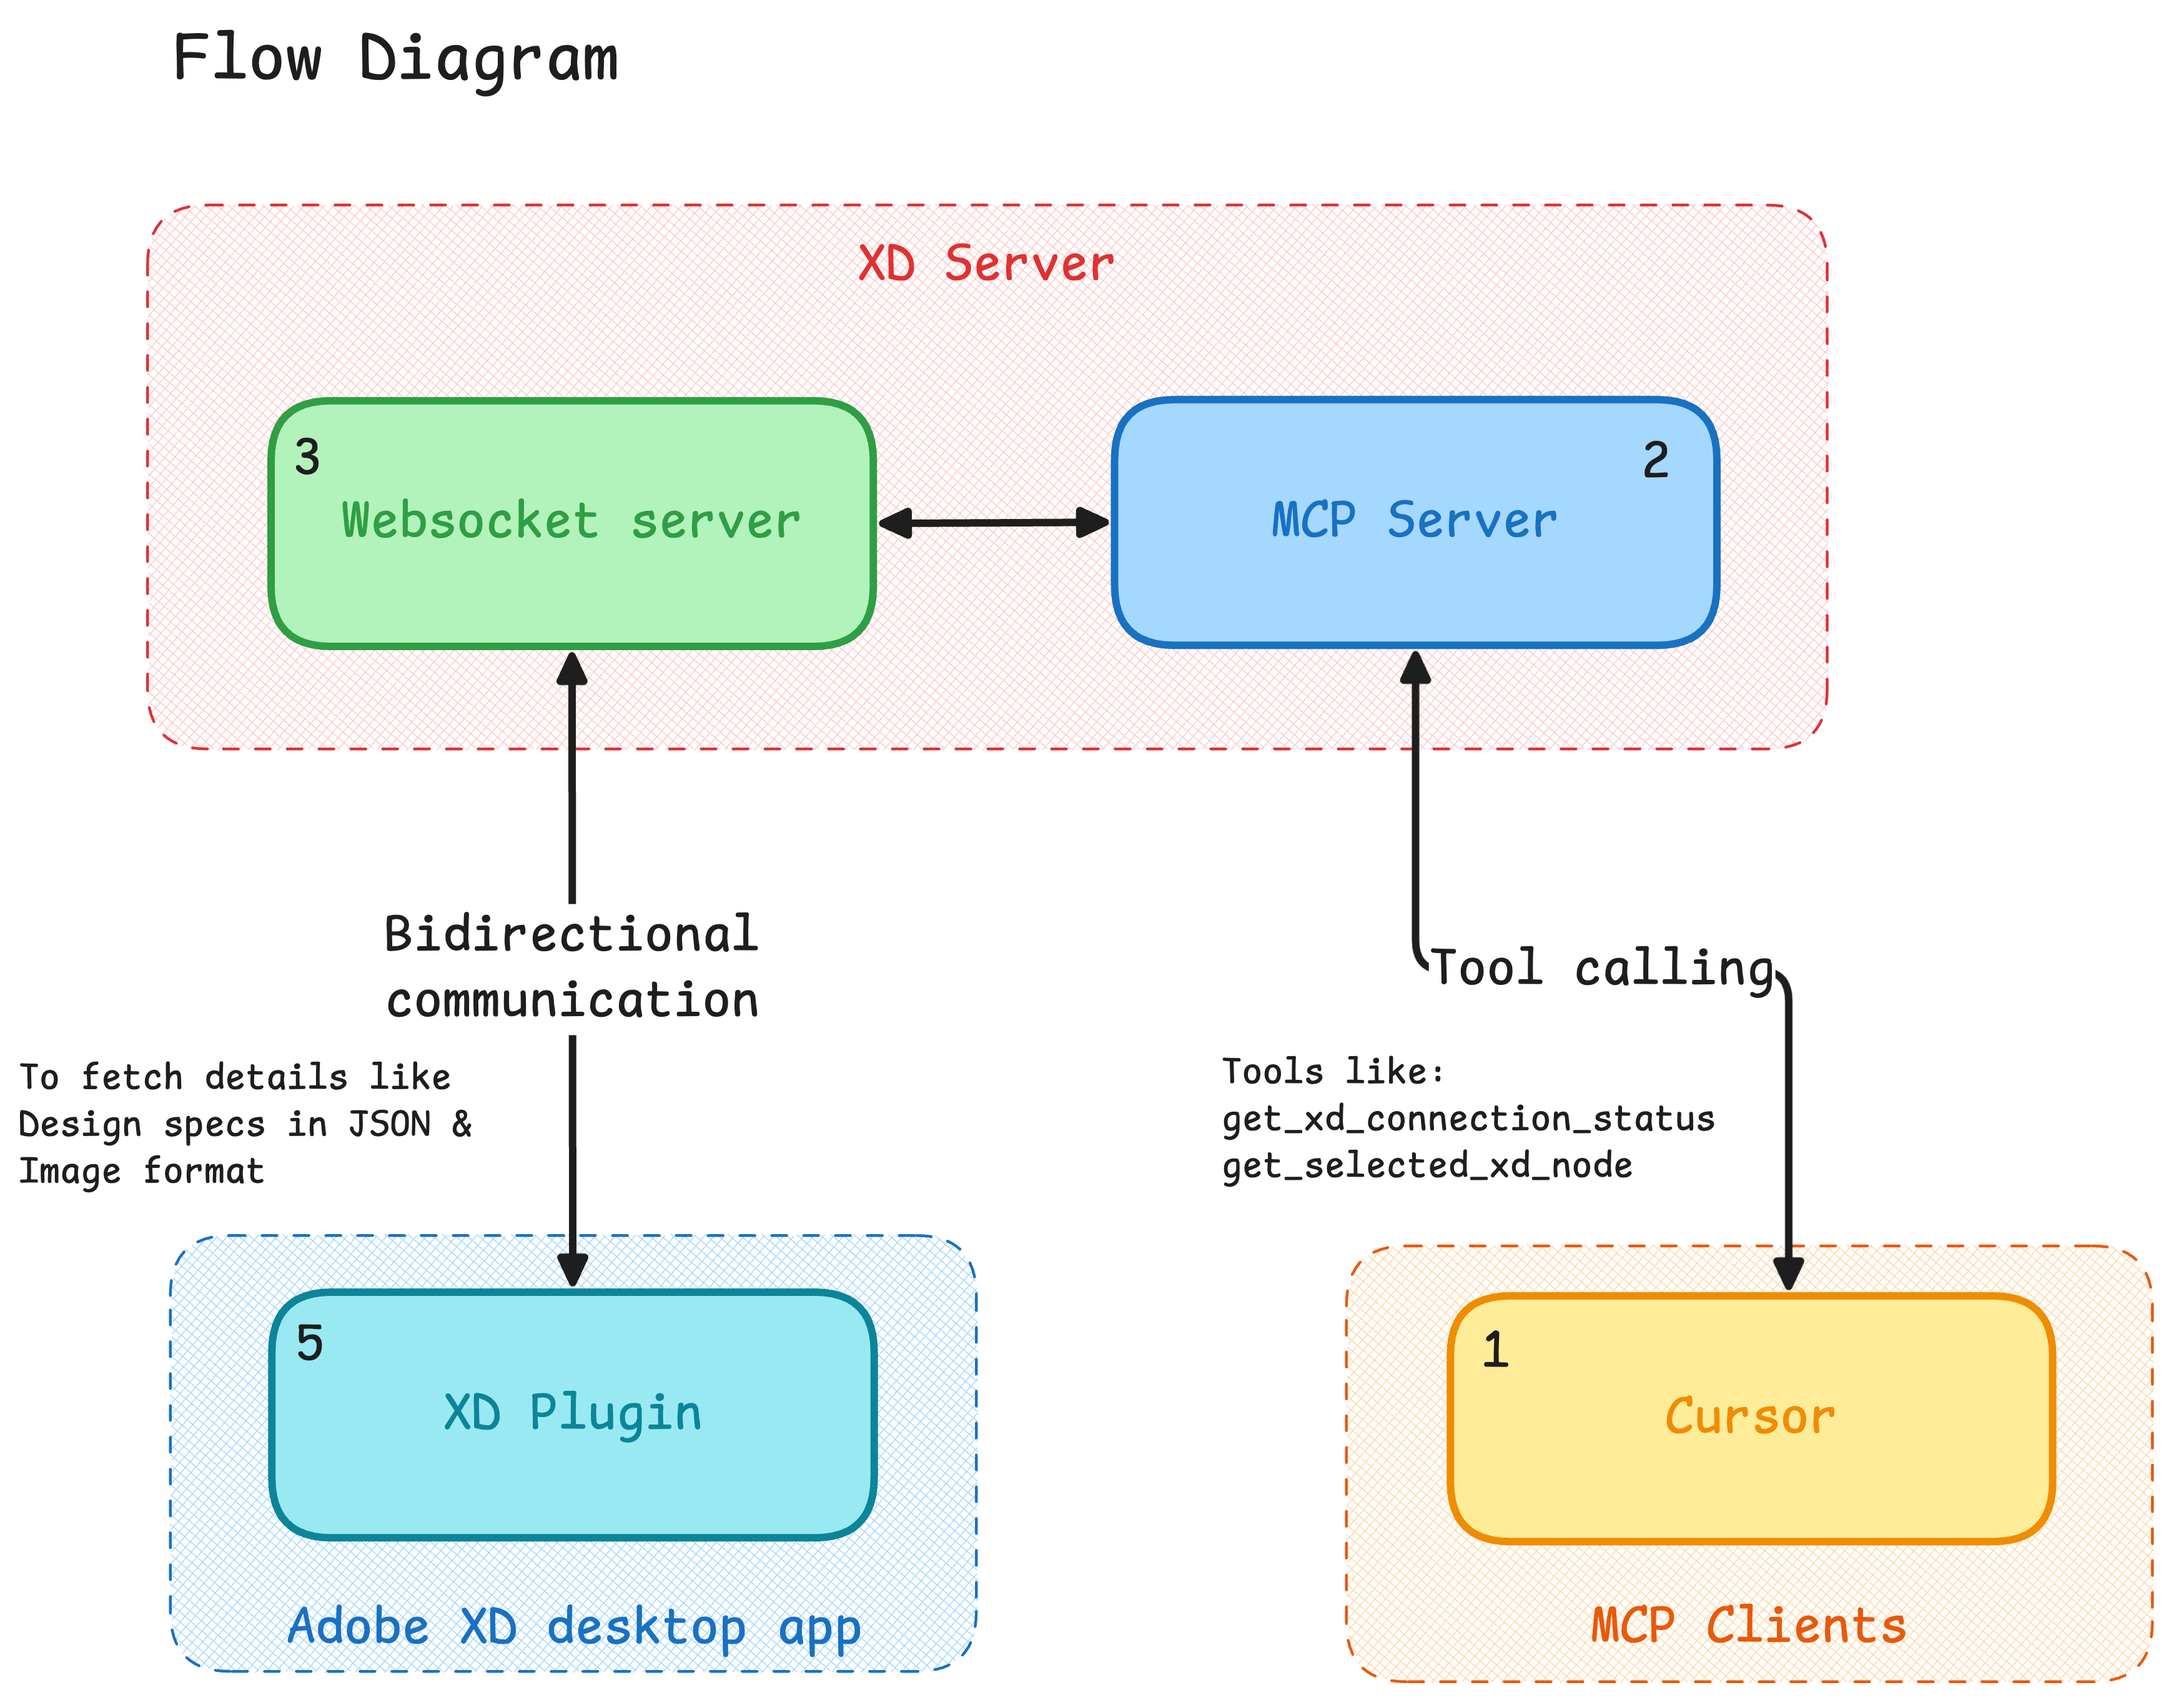
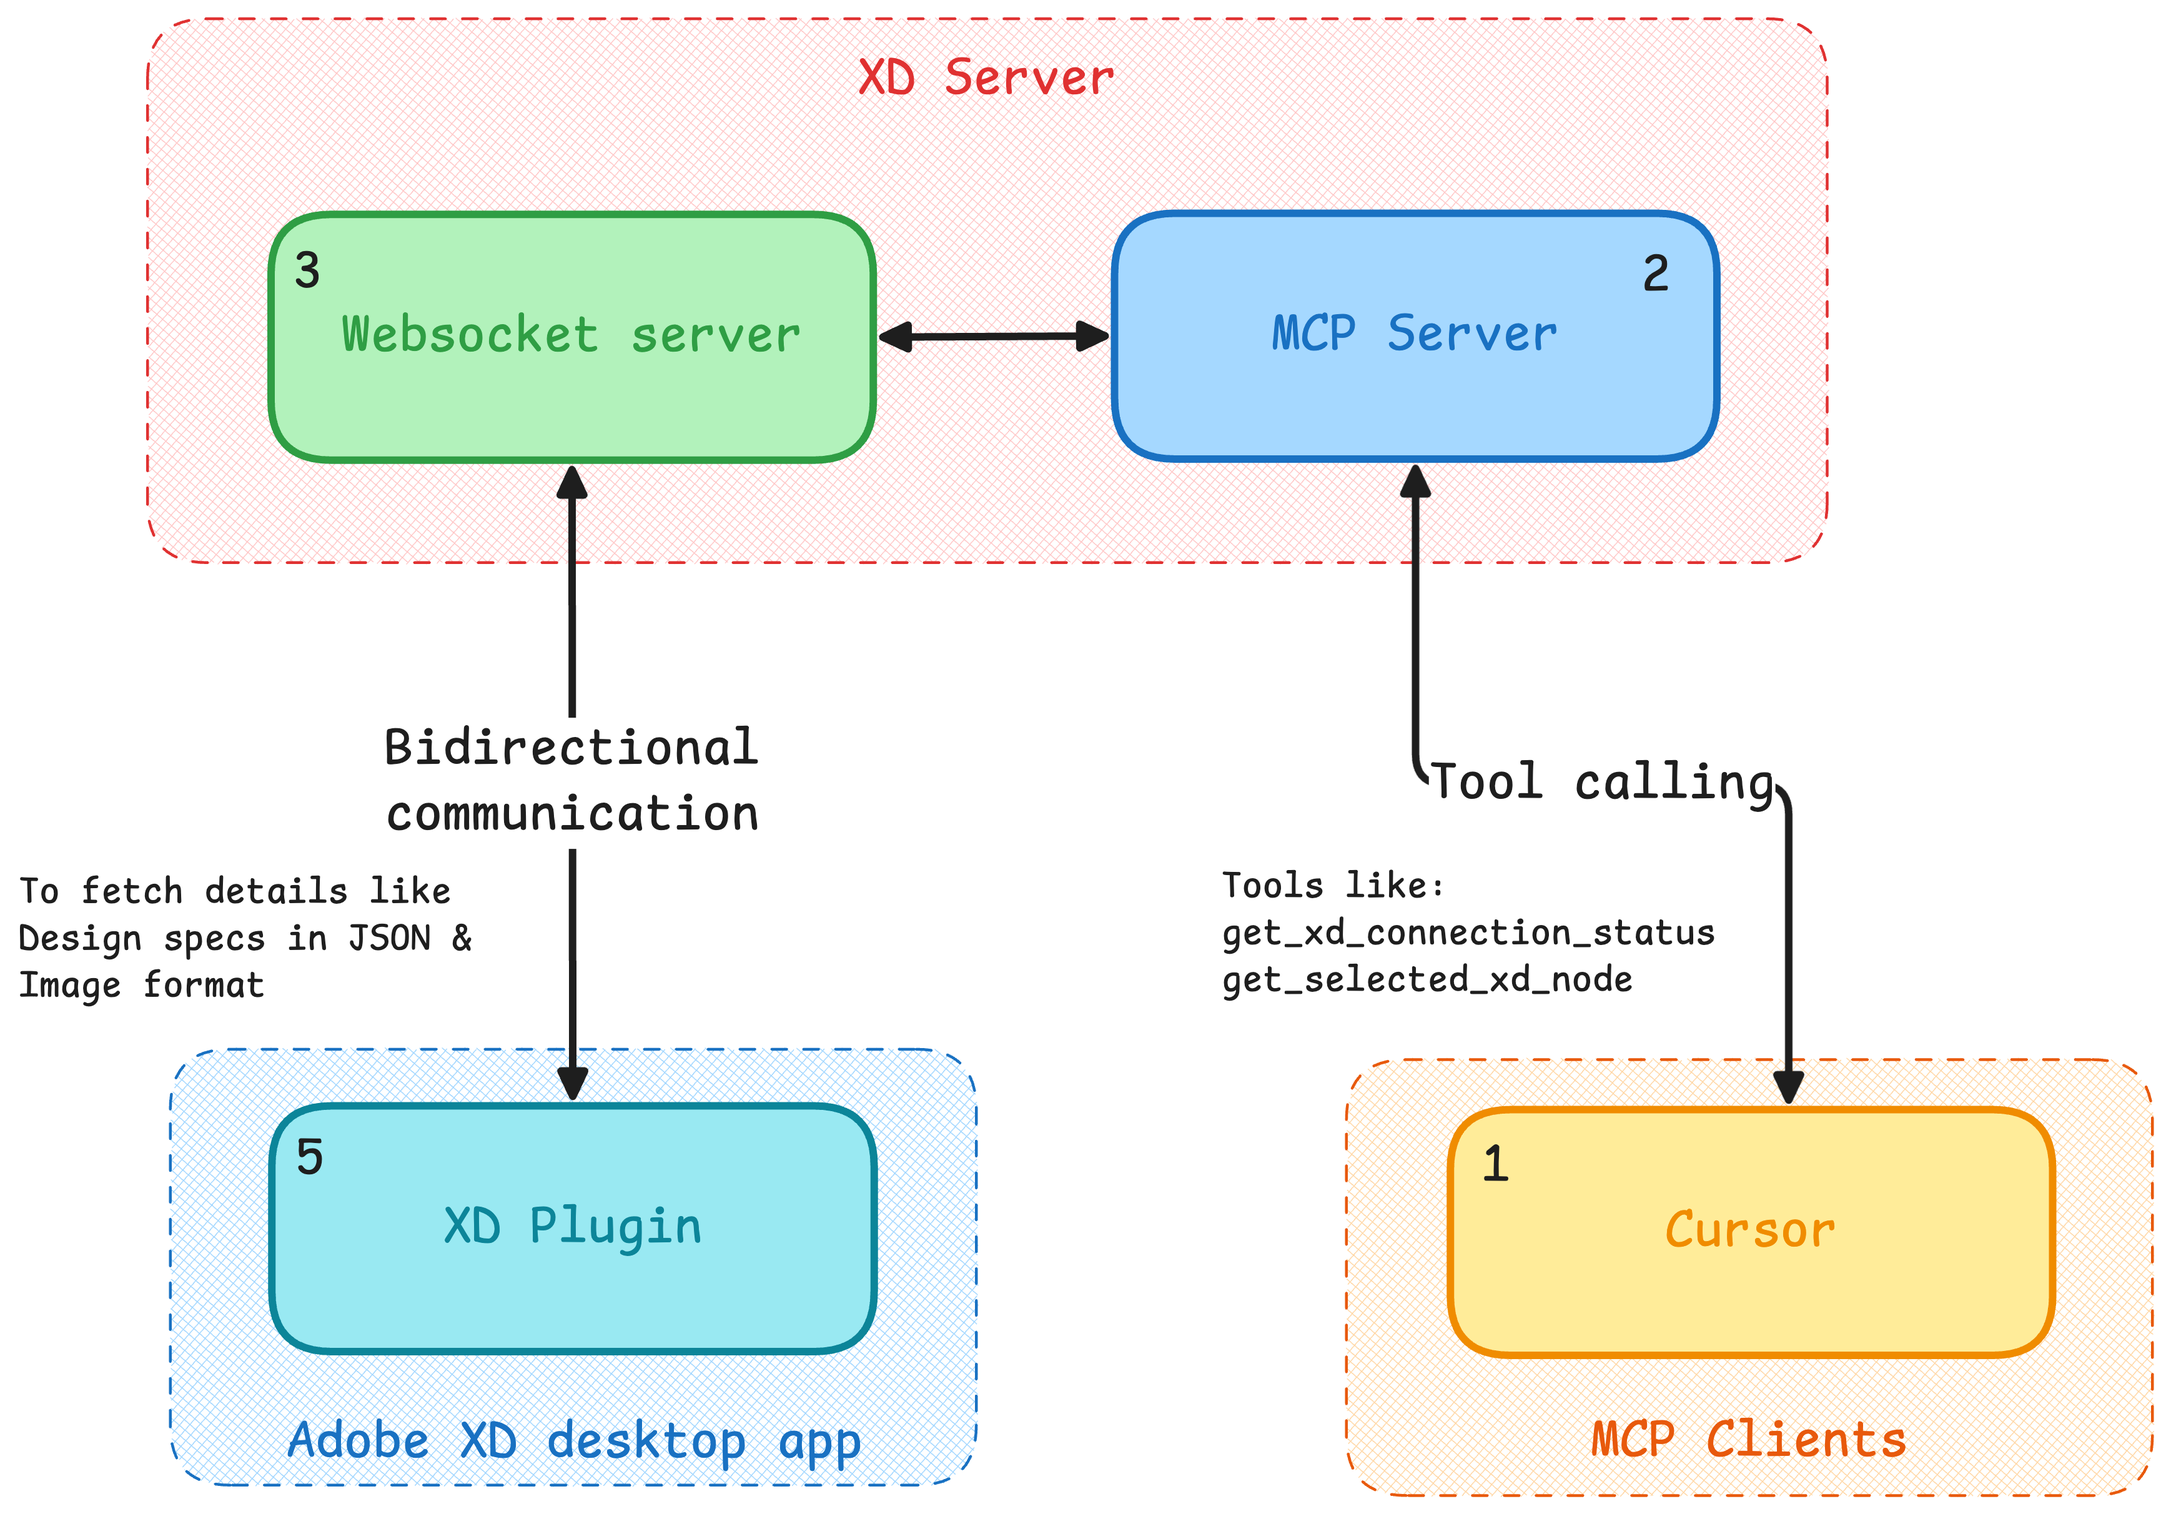
updated readme image size

Changed region(s): [[0.0, 0.0, 0.8389, 0.9901], [0.5593, 0.495, 0.9942, 0.9901]]

diff --git a/RESULTS.md b/RESULTS.md
@@ -2,16 +2,6 @@
 
 This document showcases the UI skeleton development improvements achieved using the XD Ecosystem (XD Plugin & XD Server with MCP), comparing it with traditional AI-generated skeletons by just using image to demonstrate enhanced accuracy and code quality for component structure generation.
 
-<style>
-.component-image {
-    width: 300px;
-    height: 200px;
-    object-fit: cover;
-    border: 1px solid #ddd;
-    border-radius: 8px;
-}
-</style>
-
 ## 📊 Component Skeleton Development Performance Metrics
 
 | Component                         | Traditional AI | XD Ecosystem | Absolute Improvement |
@@ -25,35 +15,35 @@ This document showcases the UI skeleton development improvements achieved using 
 
 ### Component 1: Easy complexity UI Skeleton
 
-| **Mockup**                                                                                                   | **Traditional AI Skeleton**                                                                                  | **XD Ecosystem (Plugin + MCP)**                                                                            |
-| ------------------------------------------------------------------------------------------------------------ | ------------------------------------------------------------------------------------------------------------ | ---------------------------------------------------------------------------------------------------------- |
-| <img src="./images/results/Component%201%20-%20MockUp.png" class="component-image" alt="Component 1 MockUp"> | <img src="./images/results/Component%201%20-%20Before.png" class="component-image" alt="Component 1 Before"> | <img src="./images/results/Component%201%20-%20After.png" class="component-image" alt="Component 1 After"> |
-| **Target Design**                                                                                            | **Traditional AI-Generated Skeleton**                                                                        | **XD Ecosystem (Plugin + MCP Server)**                                                                     |
+| **Mockup** | **Traditional AI Skeleton** | **XD Ecosystem (Plugin + MCP)** |
+| :----: | :----: | :----: |
+| <img src="./images/results/Component%201%20-%20MockUp.png" class="component-image" alt="Component 1 MockUp" height="200"> | <img src="./images/results/Component%201%20-%20Before.png" class="component-image" alt="Component 1 Before" height="200"> | <img src="./images/results/Component%201%20-%20After.png" class="component-image" alt="Component 1 After" height="200"> |
+| **Target Design** | **Traditional AI-Generated Skeleton** | **XD Ecosystem (Plugin + MCP Server)** |
 
 ### Component 2: Easy complexity UI Skeleton
 
-| **Mockup**                                                                                                   | **Traditional AI Skeleton**                                                                                  | **XD Ecosystem (Plugin + MCP)**                                                                            |
-| ------------------------------------------------------------------------------------------------------------ | ------------------------------------------------------------------------------------------------------------ | ---------------------------------------------------------------------------------------------------------- |
-| <img src="./images/results/Component%202%20-%20MockUp.png" class="component-image" alt="Component 2 MockUp"> | <img src="./images/results/Component%202%20-%20Before.png" class="component-image" alt="Component 2 Before"> | <img src="./images/results/Component%202%20-%20After.png" class="component-image" alt="Component 2 After"> |
-| **Target Design**                                                                                            | **Traditional AI-Generated Skeleton**                                                                        | **XD Ecosystem (Plugin + MCP Server)**                                                                     |
+| **Mockup** | **Traditional AI Skeleton** | **XD Ecosystem (Plugin + MCP)** |
+| :----: | :----: | :----: |
+| <img src="./images/results/Component%202%20-%20MockUp.png" class="component-image" alt="Component 2 MockUp" height="200"> | <img src="./images/results/Component%202%20-%20Before.png" class="component-image" alt="Component 2 Before" height="200"> | <img src="./images/results/Component%202%20-%20After.png" class="component-image" alt="Component 2 After" height="200"> |
+| **Target Design** | **Traditional AI-Generated Skeleton** | **XD Ecosystem (Plugin + MCP Server)** |
 
 Improvements: **+50% Structure Accuracy** Enhanced from 40% to 90% with proper HTML semantic structure and styles for easy complexity components.
 
 ### Component 3: Medium complexity UI Skeleton
 
-| **Mockup**                                                                                                   | **Traditional AI Skeleton**                                                                                  | **XD Ecosystem (Plugin + MCP)**                                                                            |
-| ------------------------------------------------------------------------------------------------------------ | ------------------------------------------------------------------------------------------------------------ | ---------------------------------------------------------------------------------------------------------- |
-| <img src="./images/results/Component%203%20-%20MockUp.png" class="component-image" alt="Component 3 MockUp"> | <img src="./images/results/Component%203%20-%20Before.png" class="component-image" alt="Component 3 Before"> | <img src="./images/results/Component%203%20-%20After.png" class="component-image" alt="Component 3 After"> |
-| **Target Design**                                                                                            | **Traditional AI-Generated Skeleton**                                                                        | **XD Ecosystem (Plugin + MCP Server)**                                                                     |
+| **Mockup** | **Traditional AI Skeleton** | **XD Ecosystem (Plugin + MCP)** |
+| :----: | :----: | :----: |
+| <img src="./images/results/Component%203%20-%20MockUp.png" class="component-image" alt="Component 3 MockUp" height="200"> | <img src="./images/results/Component%203%20-%20Before.png" class="component-image" alt="Component 3 Before" height="200"> | <img src="./images/results/Component%203%20-%20After.png" class="component-image" alt="Component 3 After" height="200"> |
+| **Target Design** | **Traditional AI-Generated Skeleton** | **XD Ecosystem (Plugin + MCP Server)** |
 
 Improvements: **+45% Structure Accuracy** Enhanced from 35% to 80% with clean component architecture for medium complexity components.
 
 ### Component 4: Hard complexity UI Skeleton
 
-| **Mockup**                                                                                                   | **Traditional AI Skeleton**                                                                                  | **XD Ecosystem (Plugin + MCP)**                                                                            |
-| ------------------------------------------------------------------------------------------------------------ | ------------------------------------------------------------------------------------------------------------ | ---------------------------------------------------------------------------------------------------------- |
-| <img src="./images/results/Component%204%20-%20MockUp.png" class="component-image" alt="Component 4 MockUp"> | <img src="./images/results/Component%204%20-%20Before.png" class="component-image" alt="Component 4 Before"> | <img src="./images/results/Component%204%20-%20After.png" class="component-image" alt="Component 4 After"> |
-| **Target Design**                                                                                            | **Traditional AI-Generated Skeleton**                                                                        | **XD Ecosystem (Plugin + MCP Server)**                                                                     |
+| **Mockup** | **Traditional AI Skeleton** | **XD Ecosystem (Plugin + MCP)** |
+| :----: | :----: | :----: |
+| <img src="./images/results/Component%204%20-%20MockUp.png" class="component-image" alt="Component 4 MockUp" height="200"> | <img src="./images/results/Component%204%20-%20Before.png" class="component-image" alt="Component 4 Before" height="200"> | <img src="./images/results/Component%204%20-%20After.png" class="component-image" alt="Component 4 After" height="200"> |
+| **Target Design** | **Traditional AI-Generated Skeleton** | **XD Ecosystem (Plugin + MCP Server)** |
 
 Improvements: **+40% Structure Accuracy** Enhanced from ~20% to ~60% with complex layout structure for hard complexity components.
 
@@ -115,3 +105,12 @@ Improvements: **+40% Structure Accuracy** Enhanced from ~20% to ~60% with comple
 **🎯 Result: The XD Ecosystem (Plugin + MCP Server) delivers +50% consistent accuracy improvement over traditional AI skeleton generation, achieving 60-90% structure accuracy across all complexity levels with enhanced design fidelity and seamless AI assistant integration.**
 
 _These results demonstrate the transformative impact of direct design tool integration with AI-powered skeleton generation workflows for modern development teams._
+
+<style>
+.component-image {
+    width: 300px;
+    height: 200px;
+    object-fit: cover;
+    border-radius: 4px;
+}
+</style>

diff --git a/README.md b/README.md
@@ -7,11 +7,13 @@ A comprehensive ecosystem for bridging Adobe XD with AI assistants and Large Lan
 The XD Ecosystem consists of two core components that work together to enable AI-powered design workflows:
 
 ### 🔌 [XD Plugin](./xd-plugin/)
+
 Adobe XD plugin that extracts design specifications and communicates with external services.
 
 **[📖 Read Plugin Documentation →](./xd-plugin/README.md)**
 
 ### 🌐 [XD Server](./xd-server/)
+
 MCP (Model Context Protocol) server that bridges XD plugins with LLMs using real-time WebSocket communication.
 
 **[📖 Read Server Documentation →](./xd-server/README.md)**
@@ -20,7 +22,9 @@ MCP (Model Context Protocol) server that bridges XD plugins with LLMs using real
 
 ### **Flow Diagram**
 
-![Flow Diagram](./images/flow-diagram.png)
+<p align="center">
+    <img src="./images/flow-diagram.png" class="image" alt="Flow Diagram" height="400">
+</p>
 
 1. **AI Assistant** calls MCP tools (e.g., "get selected XD node")
 2. **MCP Server** processes request via EventEmitter pattern
@@ -30,7 +34,9 @@ MCP (Model Context Protocol) server that bridges XD plugins with LLMs using real
 
 ### Sequence Diagram
 
-![Sequence Diagram](./images/sequence-diagram.png)
+<p align="center">
+    <img src="./images/sequence-diagram.png" class="image" alt="Sequence Diagram" height="400">
+</p>
 
 ## 🚀 Quick Start
 
@@ -48,9 +54,10 @@ MCP (Model Context Protocol) server that bridges XD plugins with LLMs using real
     ```
 
 3. Configure LLM Client
-Configure your MCP-compatible LLM client (Claude Desktop, Cursor, etc.) with:
-- **Endpoint**: `http://localhost:4000/mcp`
-- **Detailed setup**: See [XD Server Setup Guide](./xd-server/SETUP.md)
+   Configure your MCP-compatible LLM client (Claude Desktop, Cursor, etc.) with:
+
+-   **Endpoint**: `http://localhost:4000/mcp`
+-   **Detailed setup**: See [XD Server Setup Guide](./xd-server/SETUP.md)
 
 ## 📋 Prerequisites
 
@@ -60,17 +67,17 @@ Configure your MCP-compatible LLM client (Claude Desktop, Cursor, etc.) with:
 
 ## 💡 What You Can Do
 
-- **🤖 AI-Powered Design Analysis**: Get intelligent insights about your XD designs
-- **📝 Design System Documentation**: Automatically extract design tokens and specifications
-- **⚡ Code Generation**: Generate CSS/SCSS directly from XD designs
-- **🔄 Design-to-Code Workflows**: Seamlessly bridge design and development processes
+-   **🤖 AI-Powered Design Analysis**: Get intelligent insights about your XD designs
+-   **📝 Design System Documentation**: Automatically extract design tokens and specifications
+-   **⚡ Code Generation**: Generate CSS/SCSS directly from XD designs
+-   **🔄 Design-to-Code Workflows**: Seamlessly bridge design and development processes
 
 ## 🛠 Development
 
 Each component has detailed development guides:
 
-- **XD Plugin**: [Development Guide](./xd-plugin/README.md#development)
-- **XD Server**: [Development Guide](./xd-server/README.md#development)
+-   **XD Plugin**: [Development Guide](./xd-plugin/README.md#development)
+-   **XD Server**: [Development Guide](./xd-server/README.md#development)
 
 ## 🤝 Contributing
 
@@ -83,3 +90,14 @@ Each component has detailed development guides:
 ## 📄 License
 
 MIT License - see [LICENSE](./LICENSE) file for details.
+
+<style>
+.image {
+    max-width: 100%;
+    width: auto;
+    height: 400px;
+    object-fit: cover;
+    border-radius: 4px;
+    align: center;
+}
+</style>
